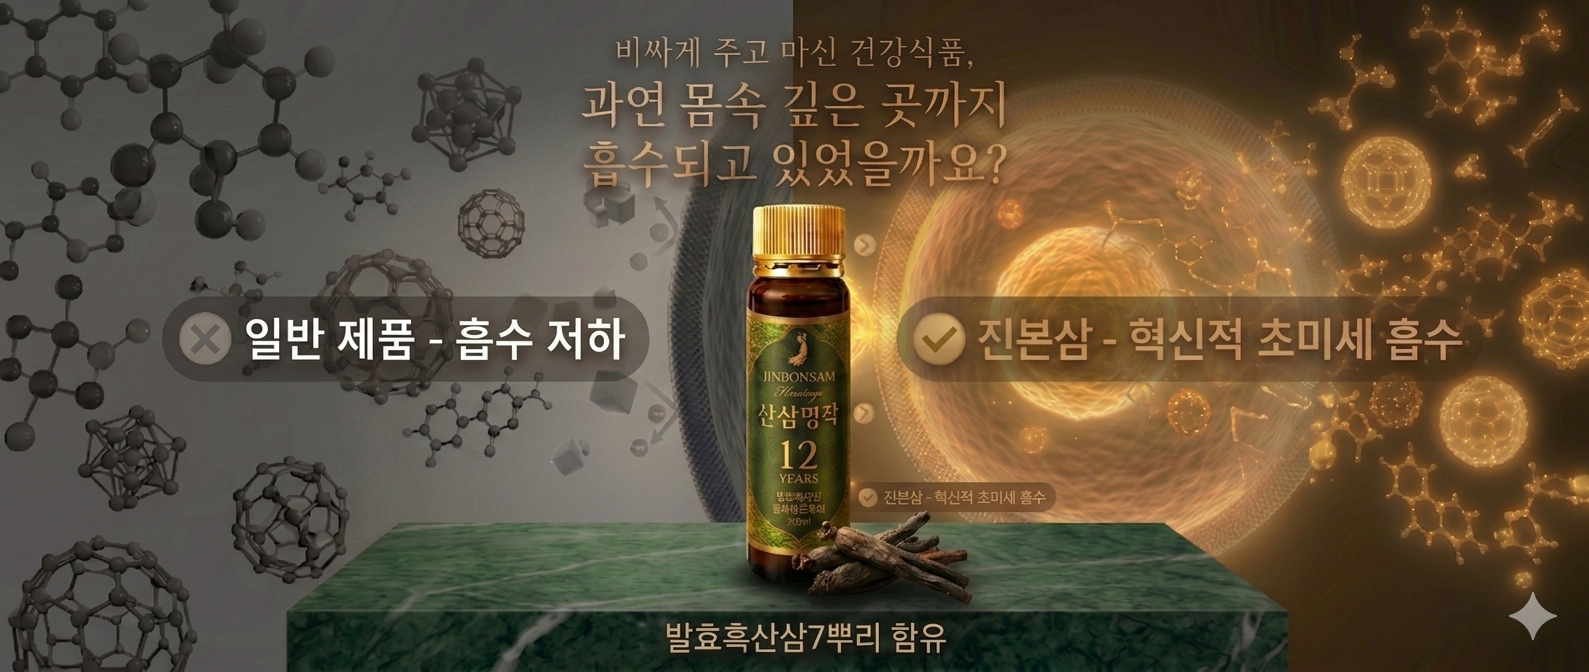
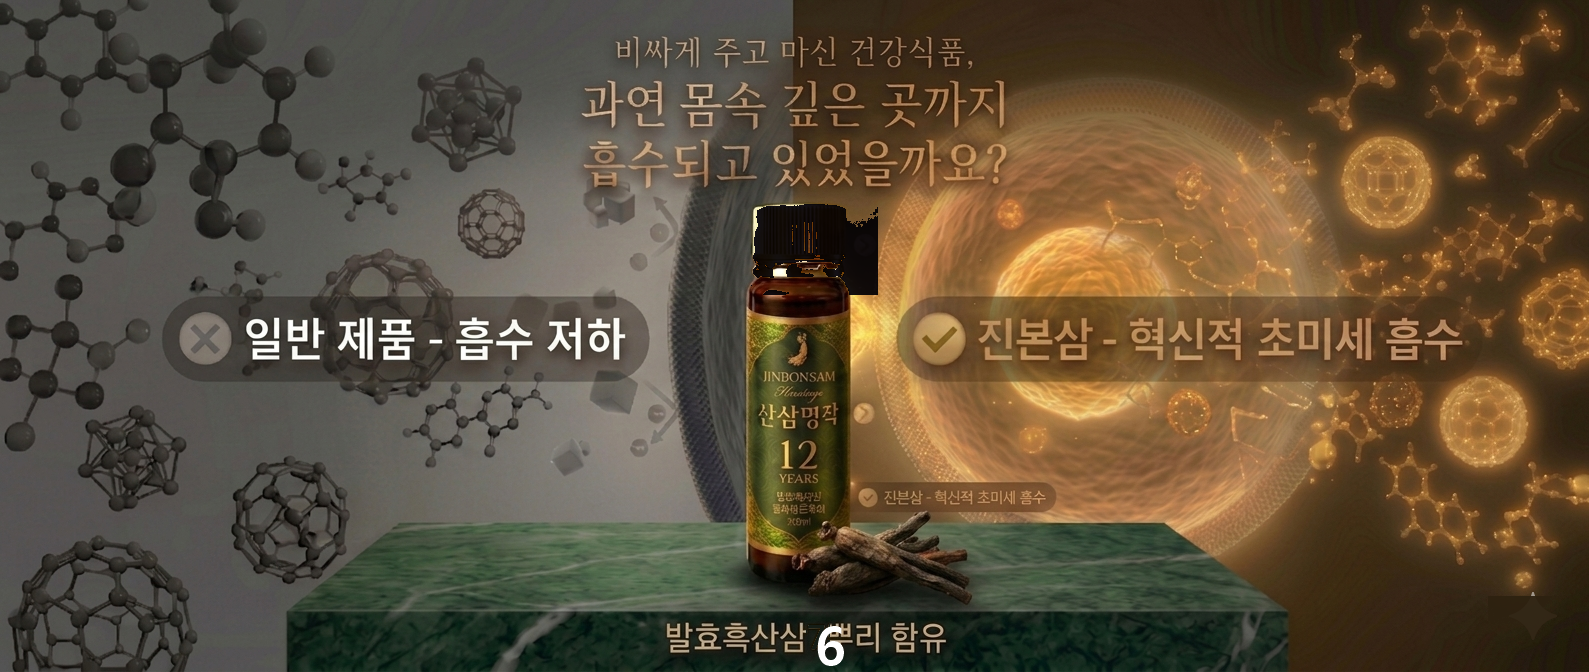
fix: Gemini 이미지 수정 + sol-visual 크롭 + nav 상품 링크 스마트스토어 연결
- Gemini_Generated_Image_rgqldwrgqldwrgql: 뚜껑 검정, Gemini 워터마크 제거, 7뿌리→6뿌리
- photo-process.png: 상단 제품박스 225px 제거 리크롭 (768×735)
- sol-visual img: top:-28%;height:128% 핵 제거 → inset:0;height:100%으로 정상화
- nav/모바일 메뉴 '상품' 항목: /products.html → store-link (스마트스토어 연결)

Changed region(s): [[0.4626, 0.2812, 0.5551, 0.4375], [0.4934, 0.9375, 0.5551, 1.0], [0.9559, 0.875, 0.9868, 0.9375]]

diff --git a/index.html b/index.html
@@ -948,7 +948,7 @@ html[lang="zh-CN"] .nav-acc-title,html[lang="zh-CN"] .nav-acc-body p{word-break:
       <a href="#pricing">구독</a>
       <a href="#reviews">후기</a>
       <a href="#faq">FAQ</a>
-      <a href="/products.html">상품</a>
+      <a href="#" class="store-link" target="_blank" rel="noopener">상품</a>
       <a href="/archive.html">자료실</a>
     </div>
     <div class="lang-drop" id="langDrop">
@@ -993,7 +993,7 @@ html[lang="zh-CN"] .nav-acc-title,html[lang="zh-CN"] .nav-acc-body p{word-break:
   <a href="#pricing" onclick="closeMobNav()">구독</a>
   <a href="#reviews" onclick="closeMobNav()">후기</a>
   <a href="#faq" onclick="closeMobNav()">FAQ</a>
-  <a href="/products.html" onclick="closeMobNav()">상품</a>
+  <a href="#" class="store-link" target="_blank" rel="noopener" onclick="closeMobNav()">상품</a>
   <a href="/archive.html" onclick="closeMobNav()">자료실</a>
   <a class="mob-cta store-link" href="#" target="_blank" rel="noopener" onclick="closeMobNav()">지금 구매하기</a>
   <div class="mob-rule"></div>
@@ -1224,7 +1224,7 @@ html[lang="zh-CN"] .nav-acc-title,html[lang="zh-CN"] .nav-acc-body p{word-break:
         <div class="sol-visual-tag tr">30ml / 1병</div>
         <div class="sol-visual-tag bl">3-STEP TECH</div>
         <div class="sol-visual-tag br">200mg POWDER</div>
-        <img src="images/photo-process.png" alt="진본삼 산삼명작 3단계 공법 — 전통 증포·현대 발효·초미세 흡수" loading="lazy" style="position:absolute;left:0;right:0;bottom:0;top:-28%;width:100%;height:128%;object-fit:cover;object-position:center top;z-index:1">
+        <img src="images/photo-process.png" alt="진본삼 산삼명작 3단계 공법 — 전통 증포·현대 발효·초미세 흡수" loading="lazy" style="position:absolute;inset:0;width:100%;height:100%;object-fit:cover;object-position:center top;z-index:1">
       </div>
 
       <div class="sol-list">

diff --git a/산양산삼_Landing_Page_fixed.html b/산양산삼_Landing_Page_fixed.html
@@ -948,7 +948,7 @@ html[lang="zh-CN"] .nav-acc-title,html[lang="zh-CN"] .nav-acc-body p{word-break:
       <a href="#pricing">구독</a>
       <a href="#reviews">후기</a>
       <a href="#faq">FAQ</a>
-      <a href="/products.html">상품</a>
+      <a href="#" class="store-link" target="_blank" rel="noopener">상품</a>
       <a href="/archive.html">자료실</a>
     </div>
     <div class="lang-drop" id="langDrop">
@@ -993,7 +993,7 @@ html[lang="zh-CN"] .nav-acc-title,html[lang="zh-CN"] .nav-acc-body p{word-break:
   <a href="#pricing" onclick="closeMobNav()">구독</a>
   <a href="#reviews" onclick="closeMobNav()">후기</a>
   <a href="#faq" onclick="closeMobNav()">FAQ</a>
-  <a href="/products.html" onclick="closeMobNav()">상품</a>
+  <a href="#" class="store-link" target="_blank" rel="noopener" onclick="closeMobNav()">상품</a>
   <a href="/archive.html" onclick="closeMobNav()">자료실</a>
   <a class="mob-cta store-link" href="#" target="_blank" rel="noopener" onclick="closeMobNav()">지금 구매하기</a>
   <div class="mob-rule"></div>
@@ -1224,7 +1224,7 @@ html[lang="zh-CN"] .nav-acc-title,html[lang="zh-CN"] .nav-acc-body p{word-break:
         <div class="sol-visual-tag tr">30ml / 1병</div>
         <div class="sol-visual-tag bl">3-STEP TECH</div>
         <div class="sol-visual-tag br">200mg POWDER</div>
-        <img src="images/photo-process.png" alt="진본삼 산삼명작 3단계 공법 — 전통 증포·현대 발효·초미세 흡수" loading="lazy" style="position:absolute;left:0;right:0;bottom:0;top:-28%;width:100%;height:128%;object-fit:cover;object-position:center top;z-index:1">
+        <img src="images/photo-process.png" alt="진본삼 산삼명작 3단계 공법 — 전통 증포·현대 발효·초미세 흡수" loading="lazy" style="position:absolute;inset:0;width:100%;height:100%;object-fit:cover;object-position:center top;z-index:1">
       </div>
 
       <div class="sol-list">
